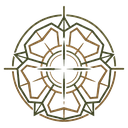
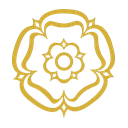
Roll out new Chosen Man identity

diff --git a/index.html b/index.html
@@ -11,8 +11,9 @@
   <meta name="theme-color" content="#0B110E">
   <title>Web Design &amp; App Development Westminster MD | Chosen Man</title>
   <link rel="canonical" href="https://chosenman.studio/">
-  <link rel="icon" type="image/png" href="assets/chosen-man-mark-128.png">
-  <link rel="apple-touch-icon" href="assets/chosen-man-mark.png">
+  <link rel="icon" type="image/png" sizes="32x32" href="assets/favicon-32.png">
+  <link rel="icon" type="image/png" sizes="48x48" href="assets/favicon-48.png">
+  <link rel="apple-touch-icon" sizes="180x180" href="assets/apple-touch-icon.png">
   <meta property="og:type" content="website">
   <meta property="og:url" content="https://chosenman.studio/">
   <meta property="og:site_name" content="Chosen Man Studio">
@@ -127,7 +128,7 @@
     #cms-tactical-canvas .cms-header { position: sticky; top: 0; z-index: 20; background: rgba(11,17,14,.82); border-bottom: 1px solid var(--cms-border); backdrop-filter: blur(18px); }
     #cms-tactical-canvas .cms-header-inner { min-height: 72px; display: grid; grid-template-columns: 1fr auto 1fr; align-items: center; gap: 24px; }
     #cms-tactical-canvas .cms-logo { display: flex; align-items: center; gap: 11px; width: fit-content; }
-    #cms-tactical-canvas .cms-logo-mark { width: 40px; height: 40px; display: grid; place-items: center; flex: 0 0 auto; }
+    #cms-tactical-canvas .cms-logo-mark { width: 44px; height: 44px; display: grid; place-items: center; flex: 0 0 auto; }
     #cms-tactical-canvas .cms-logo-mark img { display: block; width: 100%; height: 100%; object-fit: contain; }
     #cms-tactical-canvas .cms-logo strong { display: block; font-size: 12px; letter-spacing: .04em; text-transform: uppercase; }
     #cms-tactical-canvas .cms-logo small { display: block; margin-top: 3px; color: var(--cms-muted); font: 400 7px "JetBrains Mono", monospace; letter-spacing: .18em; text-transform: uppercase; }
@@ -247,6 +248,7 @@
     @media (max-width: 560px) {
       #cms-tactical-canvas .cms-wrap { width: calc(100% - 28px); }
       #cms-tactical-canvas .cms-header-inner { min-height: 66px; }
+      #cms-tactical-canvas .cms-logo-mark { width: 38px; height: 38px; }
       #cms-tactical-canvas .cms-status { display: none; }
       #cms-tactical-canvas .cms-header-cta { padding: 9px 10px; }
       #cms-tactical-canvas .cms-hero { padding-block: 74px 64px; }
@@ -278,7 +280,7 @@
   <header class="cms-header">
     <div class="cms-header-inner cms-wrap">
       <a class="cms-logo" href="#cms-tactical-top" aria-label="Chosen Man Studio home">
-        <span class="cms-logo-mark" aria-hidden="true"><img src="assets/chosen-man-mark-128.png" alt="" width="40" height="40"></span>
+        <span class="cms-logo-mark" aria-hidden="true"><img src="assets/chosen-man-mark-128.png" alt="" width="44" height="44"></span>
         <span><strong>Chosen Man</strong><small>Studio</small></span>
       </a>
       <nav class="cms-nav" aria-label="Primary navigation"><a href="#cms-tactical-work" data-i18n="navCapabilities">Capabilities</a><a href="#cms-tactical-contact" data-i18n="navContact">Contact</a></nav>
@@ -343,7 +345,7 @@
     </div>
   </section>
 
-  <footer class="cms-footer cms-wrap"><a class="cms-logo" href="#cms-tactical-top"><span class="cms-logo-mark" aria-hidden="true"><img src="assets/chosen-man-mark-128.png" alt="" width="40" height="40"></span><span><strong>Chosen Man</strong><small>Studio</small></span></a><div class="cms-footer-links"><a href="#cms-tactical-work" data-i18n="navCapabilities">Capabilities</a><a href="#cms-tactical-contact" data-i18n="navContact">Contact</a></div><span data-i18n-html="footerMeta">© 2026 · Westminster, Maryland<br>Northern &amp; Western MD · Nationwide</span></footer>
+  <footer class="cms-footer cms-wrap"><a class="cms-logo" href="#cms-tactical-top"><span class="cms-logo-mark" aria-hidden="true"><img src="assets/chosen-man-mark-128.png" alt="" width="44" height="44"></span><span><strong>Chosen Man</strong><small>Studio</small></span></a><div class="cms-footer-links"><a href="#cms-tactical-work" data-i18n="navCapabilities">Capabilities</a><a href="#cms-tactical-contact" data-i18n="navContact">Contact</a></div><span data-i18n-html="footerMeta">© 2026 · Westminster, Maryland<br>Northern &amp; Western MD · Nationwide</span></footer>
 
   <script>
     (() => {

diff --git a/README.md b/README.md
@@ -2,6 +2,10 @@
 
 The standalone website for Chosen Man Studio, an independent web design and development practice.
 
+## Brand assets
+
+The live site uses the compact gold rose in the header, footer, browser icons, and structured metadata. The full emblem, light and dark horizontal lockups, one-color marks, and social-sharing card are published in `assets/brand` and mirrored in the sibling `Chosen-Man-Studio-Logo` working folder.
+
 ## Local preview
 
 Open `index.html` in a browser. The page has no build step and uses only Google Fonts and Lucide icons as external assets.
